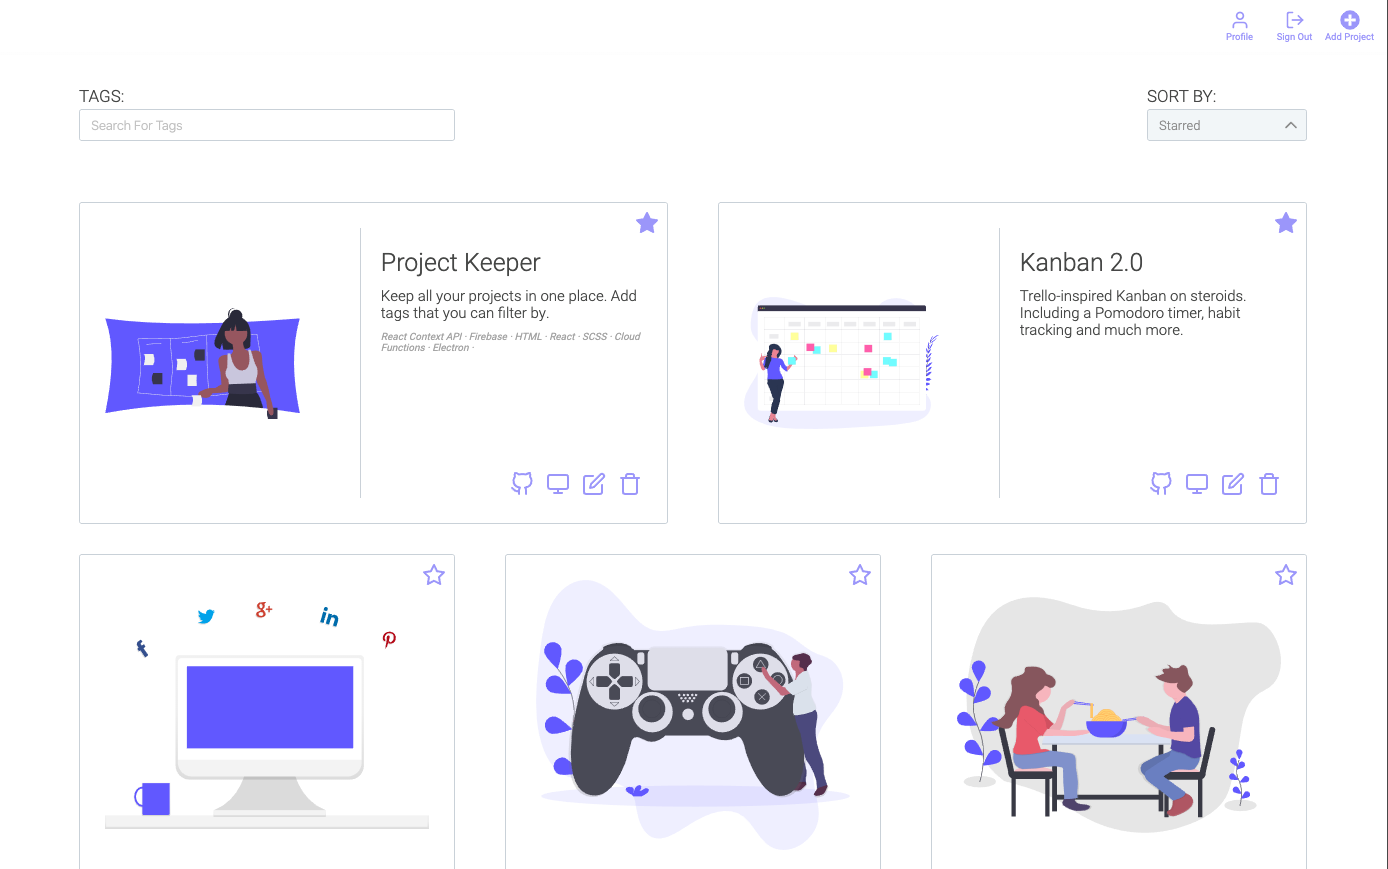
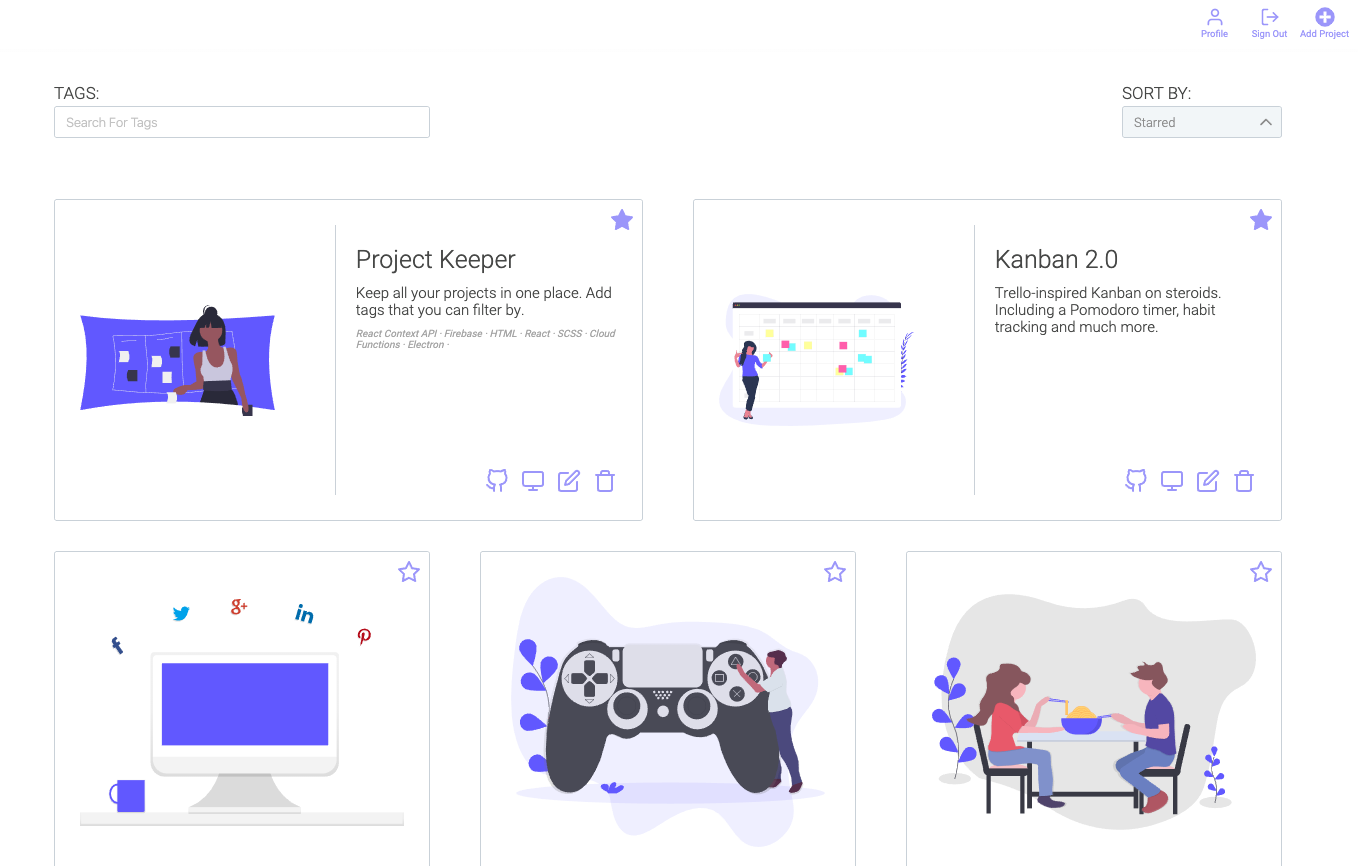
Update app image

diff --git a/README.md b/README.md
@@ -1,16 +1,18 @@
 # Project Keeper
 
-![Project Keeper](app-image.png)
-
 Project Keeper is an application that helps you keep track of projects you are working on, have finished, or are planning on doing in the future. This is the web version of project keeper, there is also an [electron application](https://github.com/amelieoller/electron-project-keeper) with slightly different functionality. This is a work in progress.
+
+![Project Keeper](app-image.png)
 
 ## Table of Contents
 
-- [Technologies/Packages](#technologiespackages)
-- [Install](#install)
-- [Maintainers](#maintainers)
-- [Contributing](#contributing)
-- [License](#license)
+- [Project Keeper](#project-keeper)
+	- [Table of Contents](#table-of-contents)
+	- [Technologies/Packages](#technologiespackages)
+	- [Install](#install)
+	- [Maintainers](#maintainers)
+	- [Contributing](#contributing)
+	- [License](#license)
 
 ## Technologies/Packages
 
